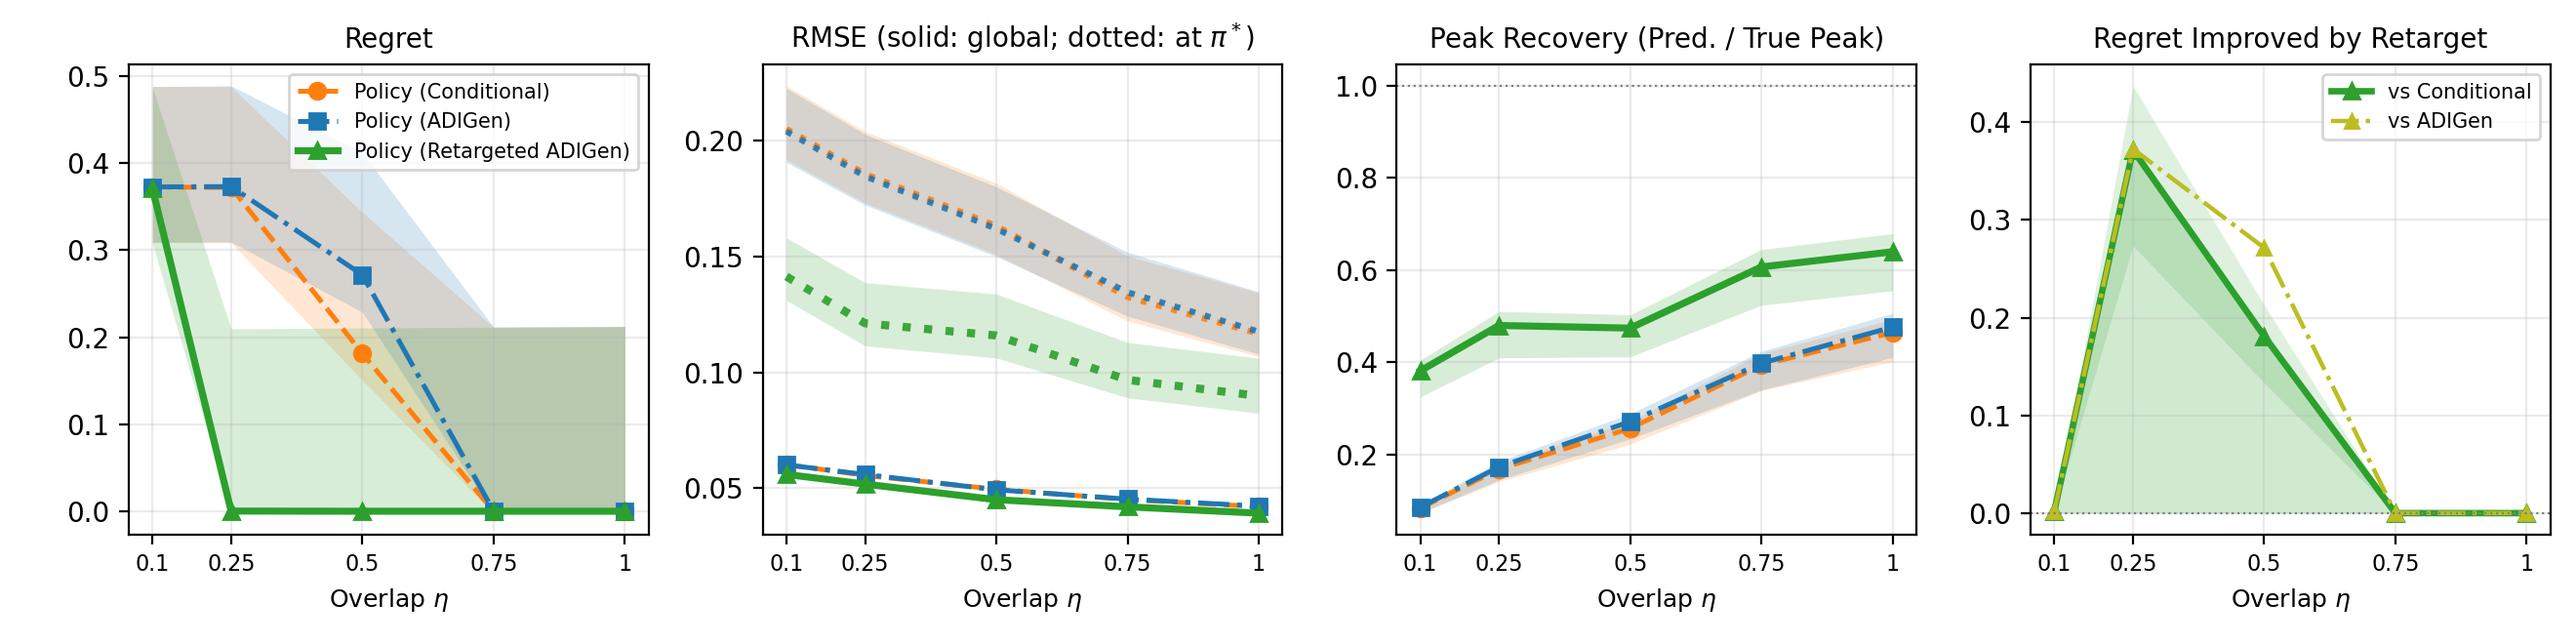
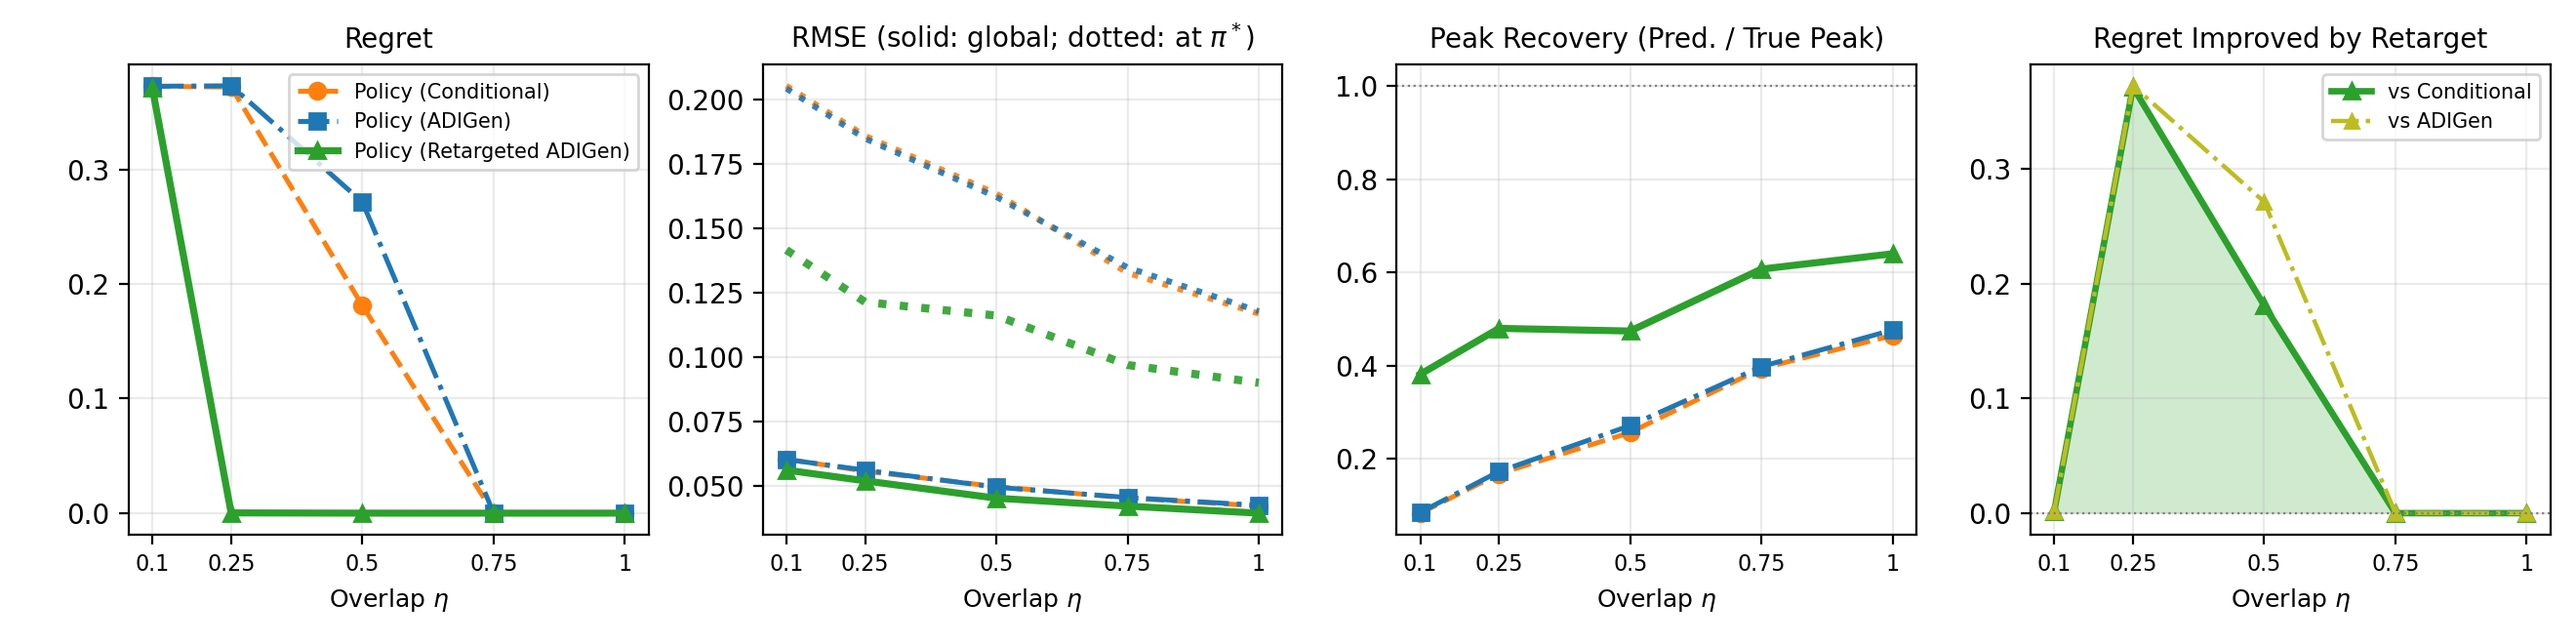
Figure 1 into section 1, tighter wording, drop world-model phrasing and fig-5 CI bands

diff --git a/index.html b/index.html
@@ -225,15 +225,6 @@ window.MathJax = {
 
 <main>
 
-  <figure class="wide" style="gap:.9rem">
-    <div class="domains">
-      <figure><img src="static/img/domains/robotics.jpg" width="1200" height="800" alt="A laboratory robot arm handling an assay plate."><figcaption><b>Robotics</b>Teleoperators attempt the grasps they trust, so demonstrations cover only the approaches that looked safe.</figcaption></figure>
-      <figure><img src="static/img/domains/driving.jpg" width="1200" height="800" alt="A Waymo self-driving car on a city street."><figcaption><b>Driving</b>Fleet drivers brake before danger materializes, so the logs barely contain the maneuvers that matter most.</figcaption></figure>
-      <figure><img src="static/img/domains/medicine.jpg" width="1200" height="800" alt="An intensive care bed surrounded by infusion pumps."><figcaption><b>Medicine</b>Clinicians dose by how sick the patient already is, so treatment and prognosis are entangled in every record.</figcaption></figure>
-    </div>
-    <figcaption class="col"><b>Figure 1: The data was never an experiment.</b> World models for decision-making are trained on logs produced by rational actors — operators, drivers, clinicians — and their good judgment is exactly what biases the data: actions are correlated with hidden context, and the actions most worth evaluating are the ones they avoided.</figcaption>
-  </figure>
-
   <section class="col">
     <div class="answer">
       <h2>The Answer: <em>not by default.</em></h2>
@@ -264,7 +255,7 @@ window.MathJax = {
       <li><a href="#method">Policy learning with retargeted counterfactual generation</a></li>
       <li><a href="#theory">Why retargeting helps</a></li>
       <li><a href="#cells">Cell Painting (RxRx19a)</a></li>
-      <li><a href="#video">Video world model (PhyWorld)</a>
+      <li><a href="#video">Video generation (PhyWorld)</a>
         <ol>
           <li><a href="#video-ood">Out-of-distribution decisions</a></li>
           <li><a href="#video-results">Results across overlap and dimension</a></li>
@@ -273,19 +264,27 @@ window.MathJax = {
     </ol>
   </nav>
 
-  <section id="motivation" class="col">
-    <h2 class="sec"><span class="n">1</span>The problem: logs come from rational actors</h2>
-    <p>World models promise decision-making from logged experience alone: train a generator of <i>what happens if</i> on the data a system already collects, then plan against it. The catch is that logs are derived from rational actors. Nobody logged at random — the safety driver braked when it was wise, the teleoperator reached for the grasp that looked safe, the clinician dosed the patient who needed it. That rationality, not noise or malice, biases the data in exactly the two ways that hurt decisions.</p>
-    <figure>
+  <section id="motivation" class="wide">
+    <div class="col"><h2 class="sec"><span class="n">1</span>The problem: logs come from rational actors</h2></div>
+    <p class="col">Counterfactual generators promise decisions from logged experience: train on what a system already records, then plan against it. But nobody logged at random — the driver braked when it was wise, the operator reached for the safe grasp, the clinician dosed the sickest patient. That rationality, not noise, biases the data in the two ways that hurt decisions.</p>
+    <figure class="wide" style="gap:.9rem">
+      <div class="domains">
+        <figure><img src="static/img/domains/robotics.jpg" width="1200" height="800" alt="A laboratory robot arm handling an assay plate."><figcaption><b>Robotics</b>Demonstrations cover only the grasps the operator trusted.</figcaption></figure>
+        <figure><img src="static/img/domains/driving.jpg" width="1200" height="800" alt="A Waymo self-driving car on a city street."><figcaption><b>Driving</b>Fleet logs brake before danger ever materializes.</figcaption></figure>
+        <figure><img src="static/img/domains/medicine.jpg" width="1200" height="800" alt="An intensive care bed surrounded by infusion pumps."><figcaption><b>Medicine</b>Dose tracks how sick the patient already is.</figcaption></figure>
+      </div>
+      <figcaption class="col"><b>Figure 1: The data was never an experiment.</b> Logs come from rational actors, and their good judgment is what biases the data.</figcaption>
+    </figure>
+    <figure class="col">
       <!-- TODO: swap for the problem illustration the user will describe (static/img/fig_problem.png) -->
       <div class="placeholder" style="min-height:11rem">Problem illustration placeholder<br>(descriptive image to come; will live at static/img/fig_problem.png)</div>
     </figure>
-    <ul class="fixes">
-      <li><b>Confounding: actions are correlated with hidden context.</b> A fleet's drivers brake hard mostly when something is already going wrong, so a conditional model concludes that hard braking goes with crashes. A teleoperator attempts a fast grasp only when the bin is tidy. In our physics logs, strong pushes co-occur with strong gusts. Conditioning on the action learns the logger's habits, not the action's effect.</li>
-      <li><b>Vanishing coverage: the interesting actions are the rare ones.</b> Evasive steering at speed, aggressive approach angles, high doses of a promising compound — the actions a planner most needs to evaluate are the ones the logger avoided. In our benchmarks they appear in as little as \(\eta = 0.002\) of the logs.</li>
+    <ul class="fixes col">
+      <li><b>Confounding: actions correlate with hidden context.</b> Conditioning on the action learns the logger's habits, not the action's effect — braking "goes with" crashes; in our physics logs, strong pushes come with strong gusts.</li>
+      <li><b>Vanishing coverage: the interesting actions are the rare ones.</b> Evasive steering, aggressive grasps, high doses — what a planner most needs to evaluate is what the logger avoided (as little as \(\eta = 0.002\) of our logs).</li>
     </ul>
-    <p>Planning turns these flaws from noise into bias: the optimizer ranks actions by the generator's imagination and takes the argmax, so it actively seeks the sparsely-covered region where the generator is confidently optimistic. A model that looks accurate on held-out logs can still be a bad decision-maker — Figure 6 shows it happening — and global error metrics never see it, because they average under the same logging distribution.</p>
-    <figure>
+    <p class="col">Planning turns these flaws into bias: the optimizer takes the argmax over the generator's imagination, so it seeks exactly the thinly-covered region where the generator is confidently optimistic (Figure 6). Global metrics, averaged under the logging distribution, never see it.</p>
+    <figure class="col">
       <!-- TODO: swap the placeholder for the provided two-step figure at static/img/fig_two_steps.png (keep the width/height attributes in sync) -->
       <div class="placeholder">Figure 2 placeholder — the two-step fix diagram<br>(image to be provided; will live at static/img/fig_two_steps.png)</div>
       <figcaption><b>Figure 2: The fix, in two steps.</b> <b>Step 1 — debias:</b> train the generator with a doubly robust loss and an invariance penalty (ADIGen), so its errors stop tracking the logger's habits. <b>Step 2 — retarget:</b> learn a pilot policy from the debiased generator, then retrain the generator aimed at that policy and relearn (ADIGen-PO), so its remaining error budget is spent where the decision will actually be made.</figcaption>
@@ -294,7 +293,7 @@ window.MathJax = {
 
   <section id="method" class="col">
     <h2 class="sec"><span class="n">2</span>Policy Learning with Retargeted Counterfactual Generation</h2>
-    <p>Counterfactual generators, from physical world models to virtual cells, are increasingly used to choose interventions: simulate rollouts under candidate actions, then pick the best. We address three problems with this, one per step.</p>
+    <p>Counterfactual generators, from physics video to virtual cells, are increasingly used to choose interventions: simulate rollouts under candidate actions, then pick the best. We address three problems with this, one per step.</p>
     <ul class="fixes">
       <li><b>Biased logs → doubly robust loss.</b> ADIGen (<b>A</b>utomatic, <b>D</b>ebiased, <b>I</b>nvariant <b>Gen</b>eration) reweights with a <i>universal Riesz representer</i> learned by Riesz regression, so no density ratio is inverted, even for high-dimensional joint interventions.</li>
       <li><b>Shifting environments → invariance penalty</b> on learned representations \(S(\bX), T(\bA)\).</li>
@@ -346,12 +345,12 @@ window.MathJax = {
     </figure>
     <figure class="wide">
       <div class="plate"><img src="static/img/fig_cells_rho_wide.png" width="2640" height="660" loading="lazy" alt="Four panels against overlap for RxRx19a: regret, generator RMSE, peak recovery and regret reduction from retargeting, with bootstrap bands."></div>
-      <figcaption class="col"><b>Figure 5: RxRx19a across overlap η.</b> The sweep above summarized. Panels: regret; generator RMSE globally (solid) and at \(\pi^\star\) (dotted); peak recovery (predicted / true rescue height); regret reduction from retargeting. Retargeting helps most in the sparse-log regime (\(\eta \le 0.5\)) and costs nothing once the logs cover the high-dose band. Shading: 95% evaluation-noise bands.</figcaption>
+      <figcaption class="col"><b>Figure 5: RxRx19a across overlap η.</b> The sweep above summarized. Panels: regret; generator RMSE globally (solid) and at \(\pi^\star\) (dotted); peak recovery (predicted / true rescue height); regret reduction from retargeting. Retargeting helps most in the sparse-log regime (\(\eta \le 0.5\)) and costs nothing once the logs cover the high-dose band.</figcaption>
     </figure>
   </section>
 
   <section id="video" class="wide">
-    <div class="col"><h2 class="sec"><span class="n">5</span>Video world model (PhyWorld)</h2></div>
+    <div class="col"><h2 class="sec"><span class="n">5</span>Video generation (PhyWorld)</h2></div>
     <p class="col">Outcomes are rendered videos from <a href="https://phyworld.github.io/">PhyWorld</a>, and the generator is a flow-matching DiT in VAE latent space. Each ball gets a push and a shared gust; the policy chooses a second push to land each ball on a goal. Strong gusts (\(|g| \in [0.50, 0.85]\)) lie outside the training range (\(|g| \le 0.25\)) and appear in the logs with probability \(\eta\).</p>
 
     <h3 class="col" id="video-ood">5.1 Out-of-distribution decisions</h3>
